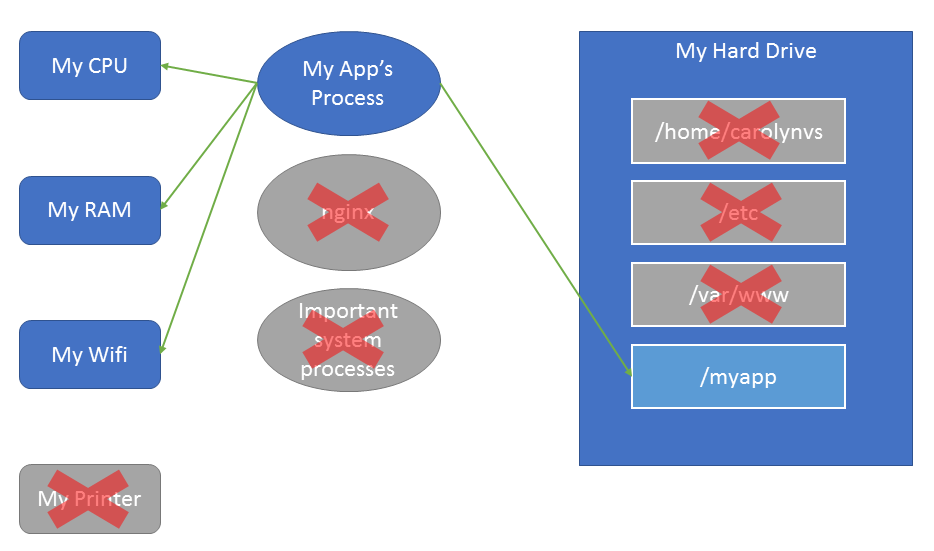
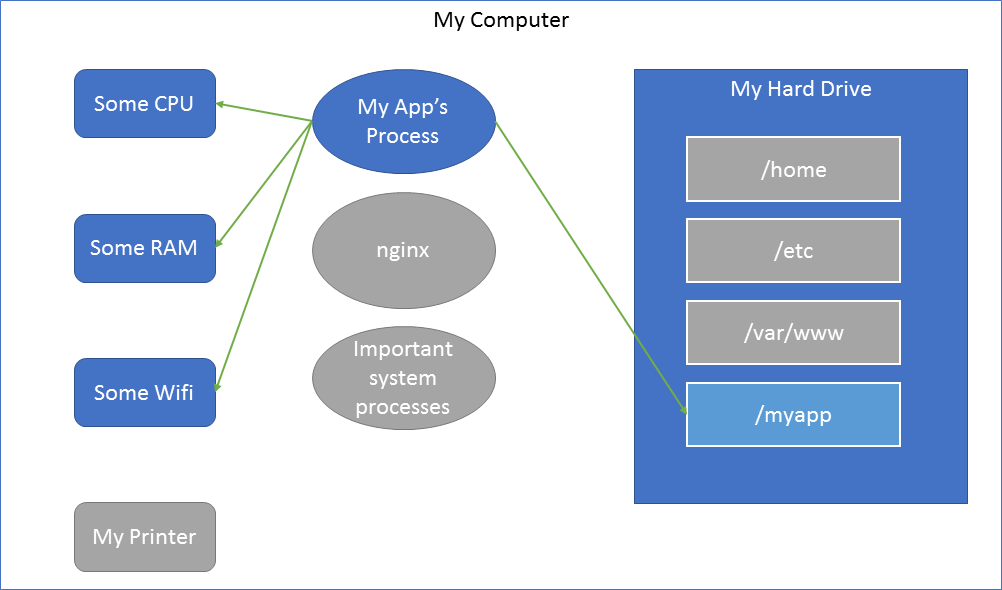
improve whale-hello

diff --git a/talk/docker/intro/index.html b/talk/docker/intro/index.html
@@ -50,7 +50,7 @@
 
 						<p>Carolyn Van Slyck</p>
 
-						<img src="images/docker.png" alt="Docker Logo"/>
+						<img src="images/whale-hello.png" alt="Whale saying hello"/>
 
 						<p><a href="http://carolynvs.com/whale-hello">http://carolynvs.com/whale-hello</a></p>
 
@@ -76,33 +76,26 @@
 				</section>
 
 				<section id="my-computer">
+					<h2>Classic Application Deployment</h2>
 					<img src="images/my-computer.png" />
 
 					<aside class="notes">
 					</aside>
 				</section>
 
-				<section id="namespaces">
+				<section id="virtual-machine">
+					<h2>Virtual Application Deployment</h2>
 
-					<h2>Linux Namespaces</h2>
-					<ul>
-						<li>Process (pid)</li>
-						<li>Filesystem (mnt)</li>
-						<li>Networking (net)</li>
-					</ul>
+					<img src="images/virtual-machine.png"/>
 
 					<aside class="notes">
 					</aside>
 				</section>
 
-				<section id="cgroups">
+				<section id="docker-namespaces">
+					<h2>Containerized Application Deployment</h2>
 
-					<h2>Control Groups (cgroups)</h2>
-					<ul>
-						<li>Filesystem</li>
-						<li>Devices</li>
-						<li>Resource Limits: CPU, Memory</li>
-					</ul>
+					<img src="images/docker-namespaces.png"/>
 
 					<aside class="notes">
 					</aside>
@@ -117,21 +110,42 @@
 					</aside>
 				</section>
 
-				<section id="docker-namespaces">
-					<img src="images/docker-namespaces.png"/>
+				<section id="namespaces">
+					<h2>Linux Namespaces</h2>
+
+					<p class="comment">Isolation without virtualization</p>
+
+					<ul>
+						<li>Process (pid): Can't see other processes</li>
+						<li>Filesystem (mnt): Can only see its own files</li>
+						<li>Networking (net): Gets its own network interface</li>
+					</ul>
+
+					<aside class="notes">
+					</aside>
+				</section>
+
+				<section id="cgroups">
+
+					<h2>Control Groups (cgroups)</h2>
+
+					<p class="comment">Restrict resource usage: CPU, RAM, IO, Network</p>
 
 					<aside class="notes">
 					</aside>
 				</section>
 
 				<section id="matrix-quote">
-					<blockquote>The Matrix is everywhere. It is all around us. Even now, in this very room.
+					<blockquote>
+						<p>The Matrix is everywhere. It is all around us. Even now, in this very room.
 						You can see it when you look out your window or when you turn on your television.
 						You can feel it when you go to work... when you go to church... when you pay your taxes.
 						It is the world that has been pulled over your eyes to blind you from the truth...
-						<br/><br/>
-						That you are a slave, Neo. Like everyone else you were born into bondage.
+						</p>
+						<p>That you are a slave, Neo. Like everyone else you were born into bondage.
 						Into a prison that you cannot taste or see or touch. A prison for your mind.
+						</p>
+						<cite>Morpheus in The Matrix</cite>
 					</blockquote>
 
 					<aside class="notes">
@@ -145,10 +159,31 @@
 					</aside>
 				</section>
 
+				<section id="reminder-docker-namespaces">
+
+					<img src="images/docker-namespaces.png"/>
+
+					<aside class="notes">
+					</aside>
+				</section>
+
 				<section id="docker">
 					<h2>So what is Docker, anyway?</h2>
 
 					<p>linux container + packaging + tools</p>
+
+					<aside class="notes">
+					</aside>
+				</section>
+
+				<section id="docker-reveal">
+					<blockquote>
+						Docker took something that previously was only an option
+						for highly motivated sysadmins, and gave
+						it away to the masses.
+						<cite>Carolyn Van Slyck</cite>
+					</blockquote>
+
 					<aside class="notes">
 					</aside>
 				</section>
@@ -165,7 +200,9 @@
 				<section id="tools">
 					<h2>Docker Tools</h2>
 
-					<pre><code>docker run -d -v `pwd`:/var/www nginx</code></pre>
+<pre><code class="big" data-trim data-noescape>
+docker run --detach --volume `pwd`:/var/www --publish 80:80 nginx
+</code></pre>
 
 					<aside class="notes">
 					</aside>
@@ -202,9 +239,9 @@
 					<h2>The Catch</h2>
 
 					<ul>
-						<li>Filesystem is ephemeral, not persistent</li>
-						<li>Not <em>all</em> knowledge is packaged in an image: volumes, ports</li>
-						<li>Application Lifecycle Management: Scale-out, Upgrade</li>
+						<li>Filesystem is ephemeral, not persistent ➡ <span class="green">External file system</span></li>
+						<li>Images aren't enough ➡ <span class="green">Compose, Helm</span></li>
+						<li>Application Lifecycle Management ➡ <span class="green">Swarm, Kubernetes</span></li>
 					</ul>
 				</section>
 
@@ -222,11 +259,11 @@
 				<section id="dockerfile">
 						<h2>Define a Docker image</h2>
 
-<p><strong>Dockerfile</strong></p>
-<pre><code>FROM ubuntu
-RUN apt-get install -y python
-COPY myapp /myapp
-CMD ["python", "/myapp/run.py"]
+						<p><strong>Dockerfile</strong></p>
+<pre><code class="big" data-trim data-noescape>
+FROM ubuntu:16.04
+COPY bin/Linux/x86_64/magic /
+CMD ["/magic"]
 </code></pre>
 
 				</section>
@@ -234,22 +271,46 @@ CMD ["python", "/myapp/run.py"]
 				<section id="docker-build">
 						<h2>Build a Docker image</h2>
 
-<pre><code>docker build -t carolynvs/myapp .</code></pre>
+<pre><code class="big" data-trim data-noescape>
+docker build -t carolynvs/magic .
+</code></pre>
 
 				</section>
 
 				<section id="docker-push">
 						<h2>Publish a Docker image</h2>
 
-				<pre><code>docker push carolynvs/myapp</code></pre>
+<pre><code class="big" data-trim data-noescape>
+docker push carolynvs/magic
+</code></pre>
 
 				</section>
 
 				<section id="docker-run">
 						<h2>Run a Docker container</h2>
 
-<pre><code>docker run -d carolynvs/myapp</code></pre>
+<pre><code class="big" data-trim data-noescape>
+docker run --rm carolynvs/magic
+</code></pre>
 
+				</section>
+
+				<section id="beginner-resources">
+					<h2>Beginner Resources</h2>
+
+					<ul>
+						<li><a href="https://medium.com/@deepakshakya/beginners-guide-to-use-docker-build-run-push-and-pull-4a132c094d75">Docker build, run, push and pull<a></li>
+						<li><a href="http://training.play-with-docker.com/">Docker Online Classroom</a></li>
+					</ul>
+
+				</section>
+
+				<section id="advanced-resources">
+					<h2>Advanced Resources</h2>
+					<ul>
+						<li><a href="https://ericchiang.github.io/post/containers-from-scratch/">Containers from Scratch</a></li>
+						<li><a href="https://jvns.ca/blog/2016/10/10/what-even-is-a-container/">What even is a container?</a></li>
+					</ul>
 				</section>
 
 				<section id="takeout">

diff --git a/talk/revealjs/css/theme/black.css b/talk/revealjs/css/theme/black.css
@@ -140,7 +140,7 @@ body {
   content: "\201C";
   font-size: 2em;
   position: absolute;
-  left: 1em;
+  left: -0.5em;
   top: -0.5em;
 }
 

diff --git a/talk/revealjs/css/custom.css b/talk/revealjs/css/custom.css
@@ -24,3 +24,7 @@
 .reveal .purple {
   color: #9575d1;
 }
+
+blockquote {
+  text-align: left;
+}
